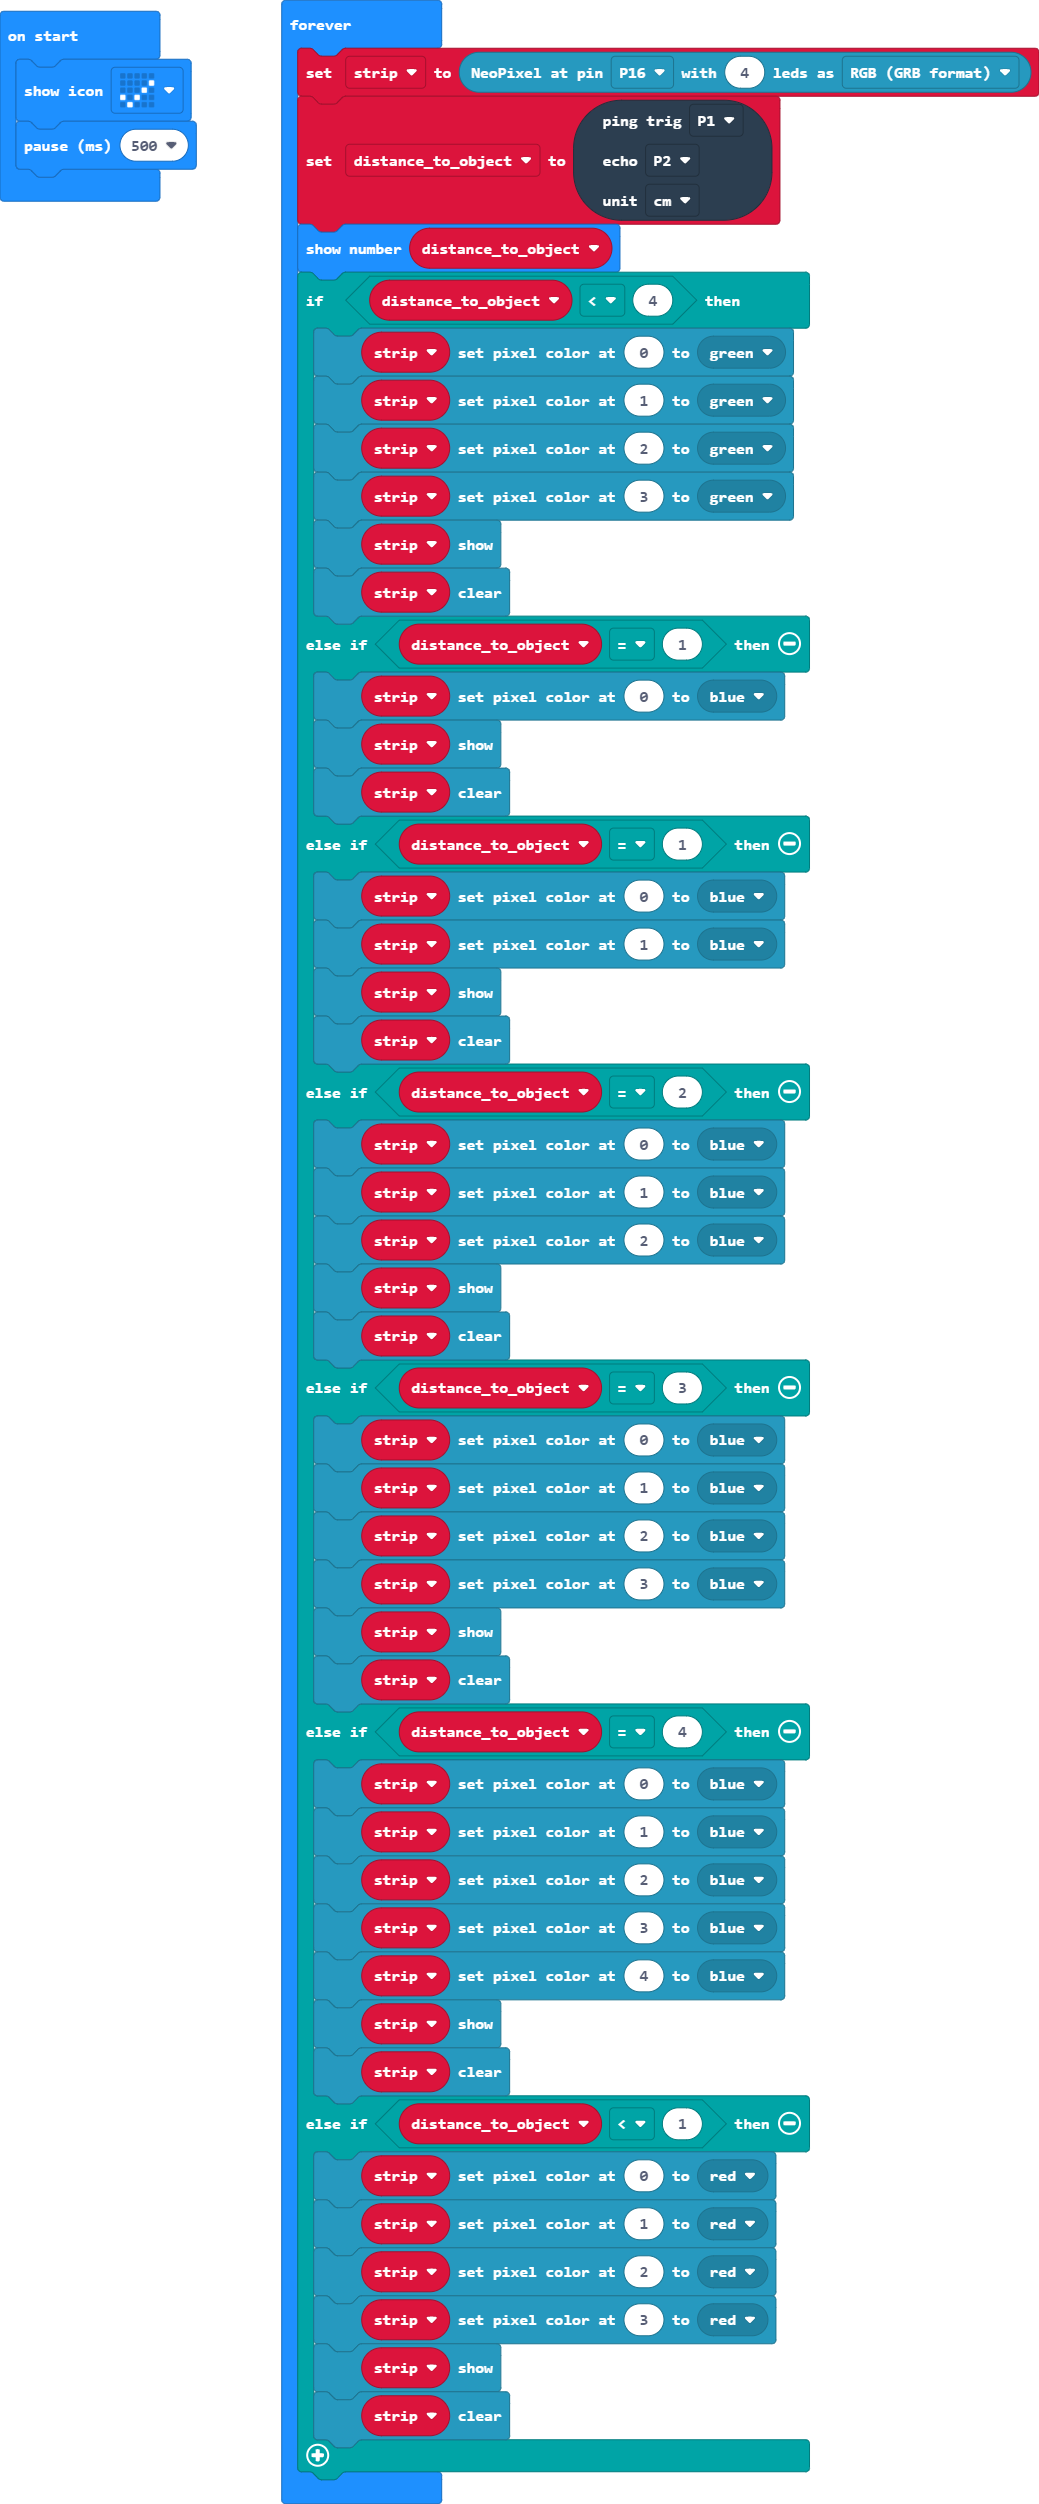
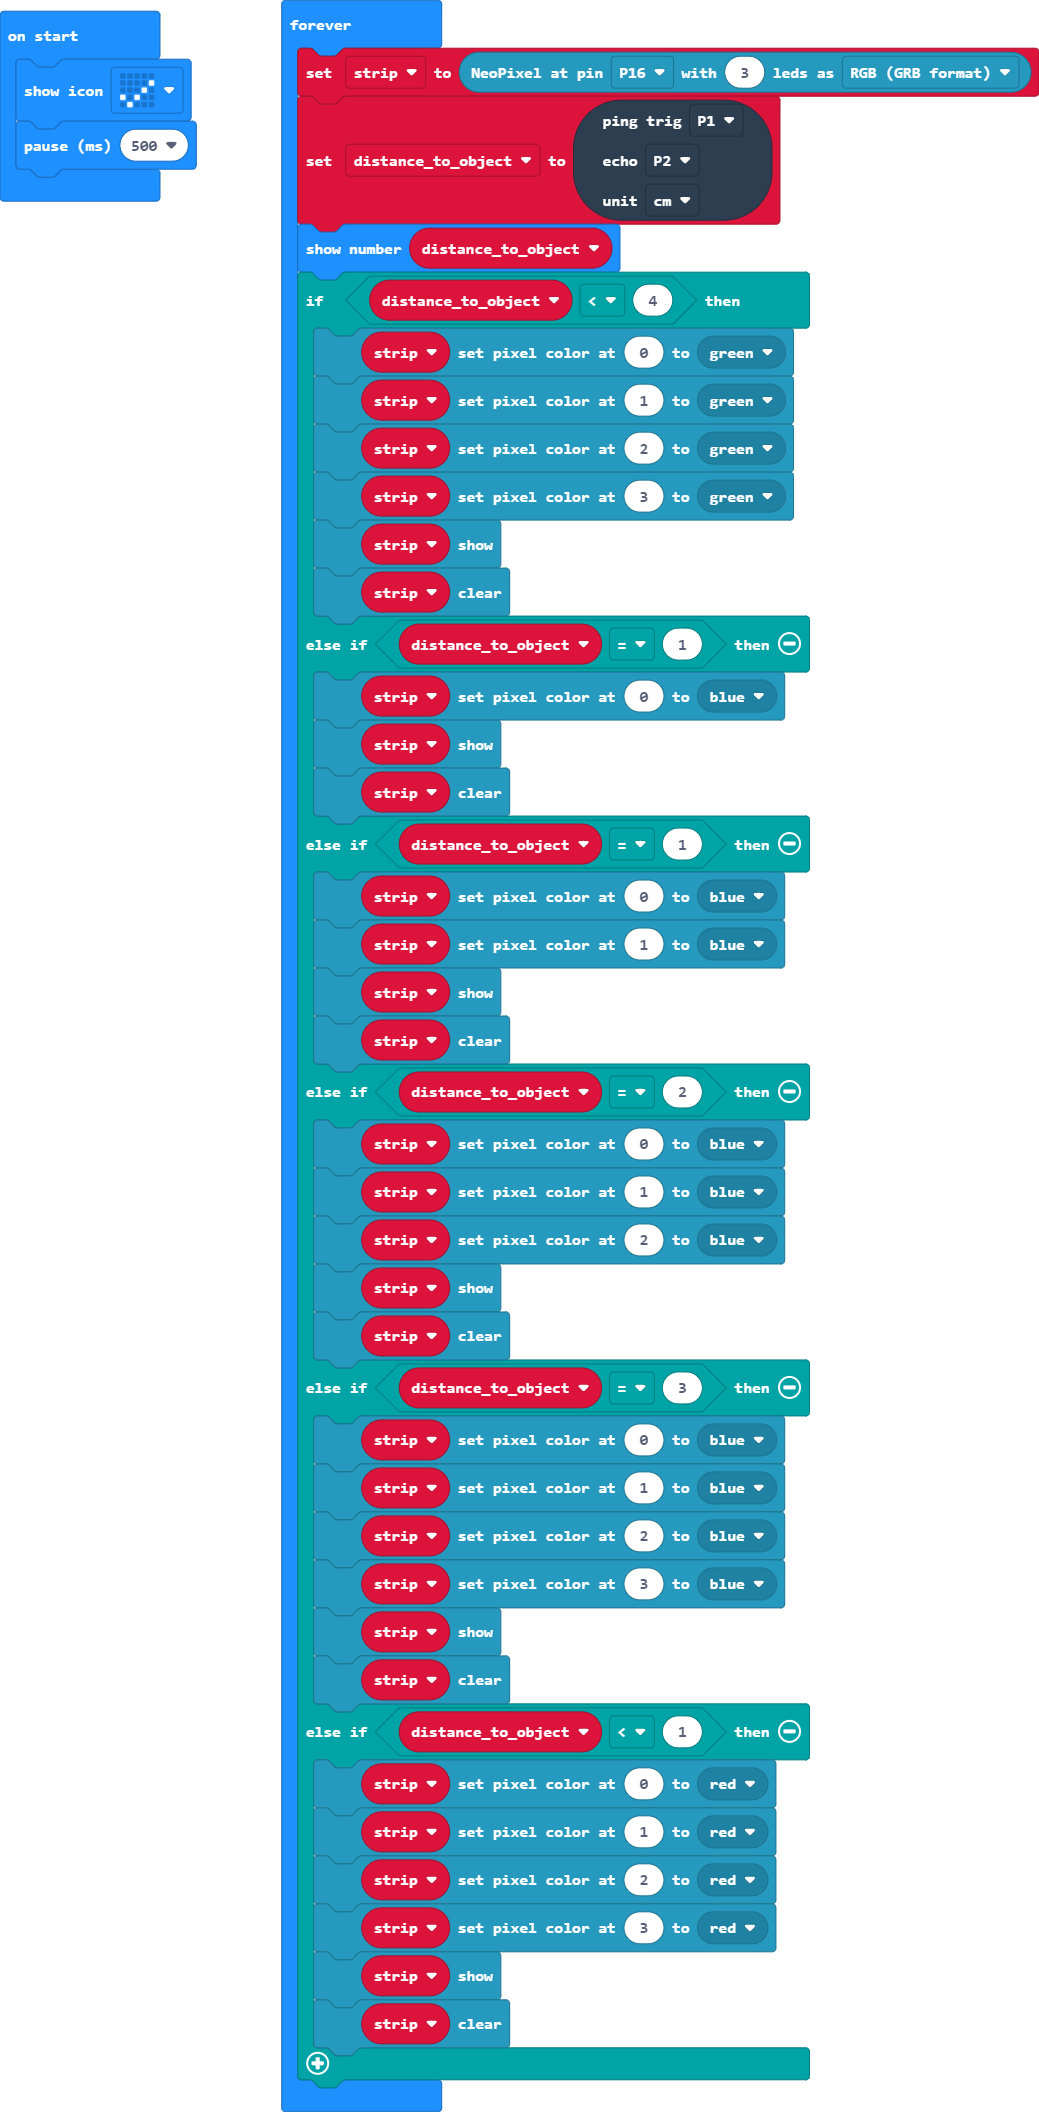
Update main.blocks, main.ts

Changed region(s): [[0.2772, 0.0, 1.0, 1.0], [0.0, 0.0, 0.1848, 0.0938]]

diff --git a/main.ts b/main.ts
@@ -3,7 +3,7 @@ let strip: neopixel.Strip = null
 basic.showIcon(IconNames.Yes)
 basic.pause(500)
 basic.forever(function () {
-    strip = neopixel.create(DigitalPin.P16, 4, NeoPixelMode.RGB)
+    strip = neopixel.create(DigitalPin.P16, 3, NeoPixelMode.RGB)
     distance_to_object = sonar.ping(
     DigitalPin.P1,
     DigitalPin.P2,
@@ -37,14 +37,6 @@ basic.forever(function () {
         strip.setPixelColor(1, neopixel.colors(NeoPixelColors.Blue))
         strip.setPixelColor(2, neopixel.colors(NeoPixelColors.Blue))
         strip.setPixelColor(3, neopixel.colors(NeoPixelColors.Blue))
-        strip.show()
-        strip.clear()
-    } else if (distance_to_object == 4) {
-        strip.setPixelColor(0, neopixel.colors(NeoPixelColors.Blue))
-        strip.setPixelColor(1, neopixel.colors(NeoPixelColors.Blue))
-        strip.setPixelColor(2, neopixel.colors(NeoPixelColors.Blue))
-        strip.setPixelColor(3, neopixel.colors(NeoPixelColors.Blue))
-        strip.setPixelColor(4, neopixel.colors(NeoPixelColors.Blue))
         strip.show()
         strip.clear()
     } else if (distance_to_object < 1) {
